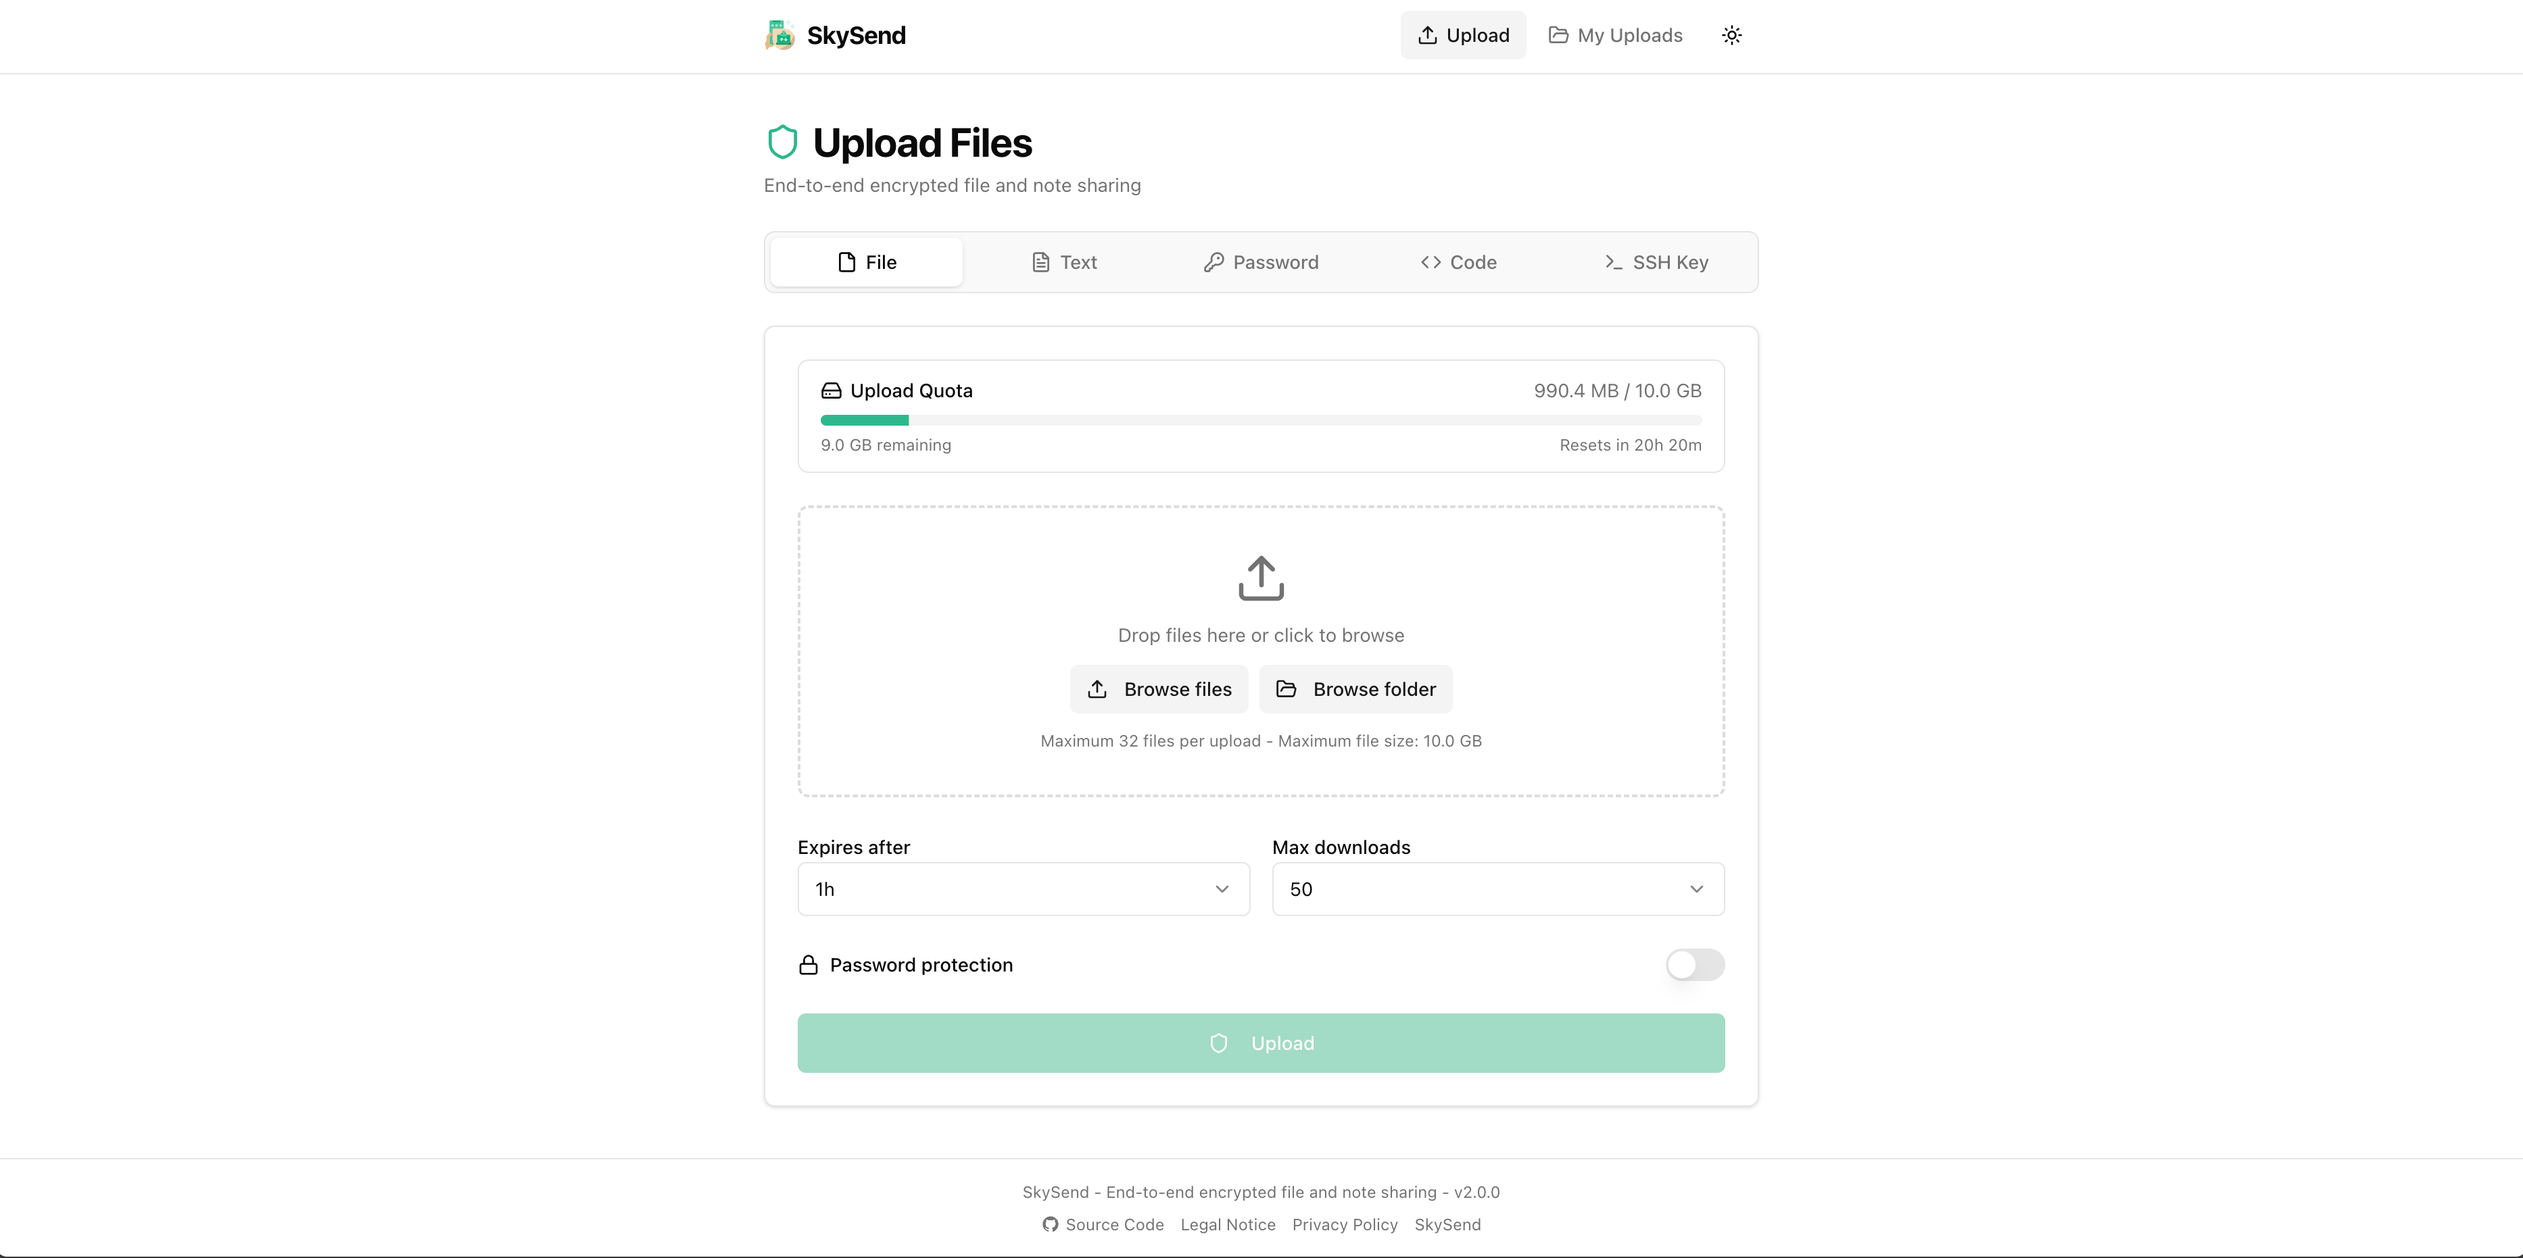
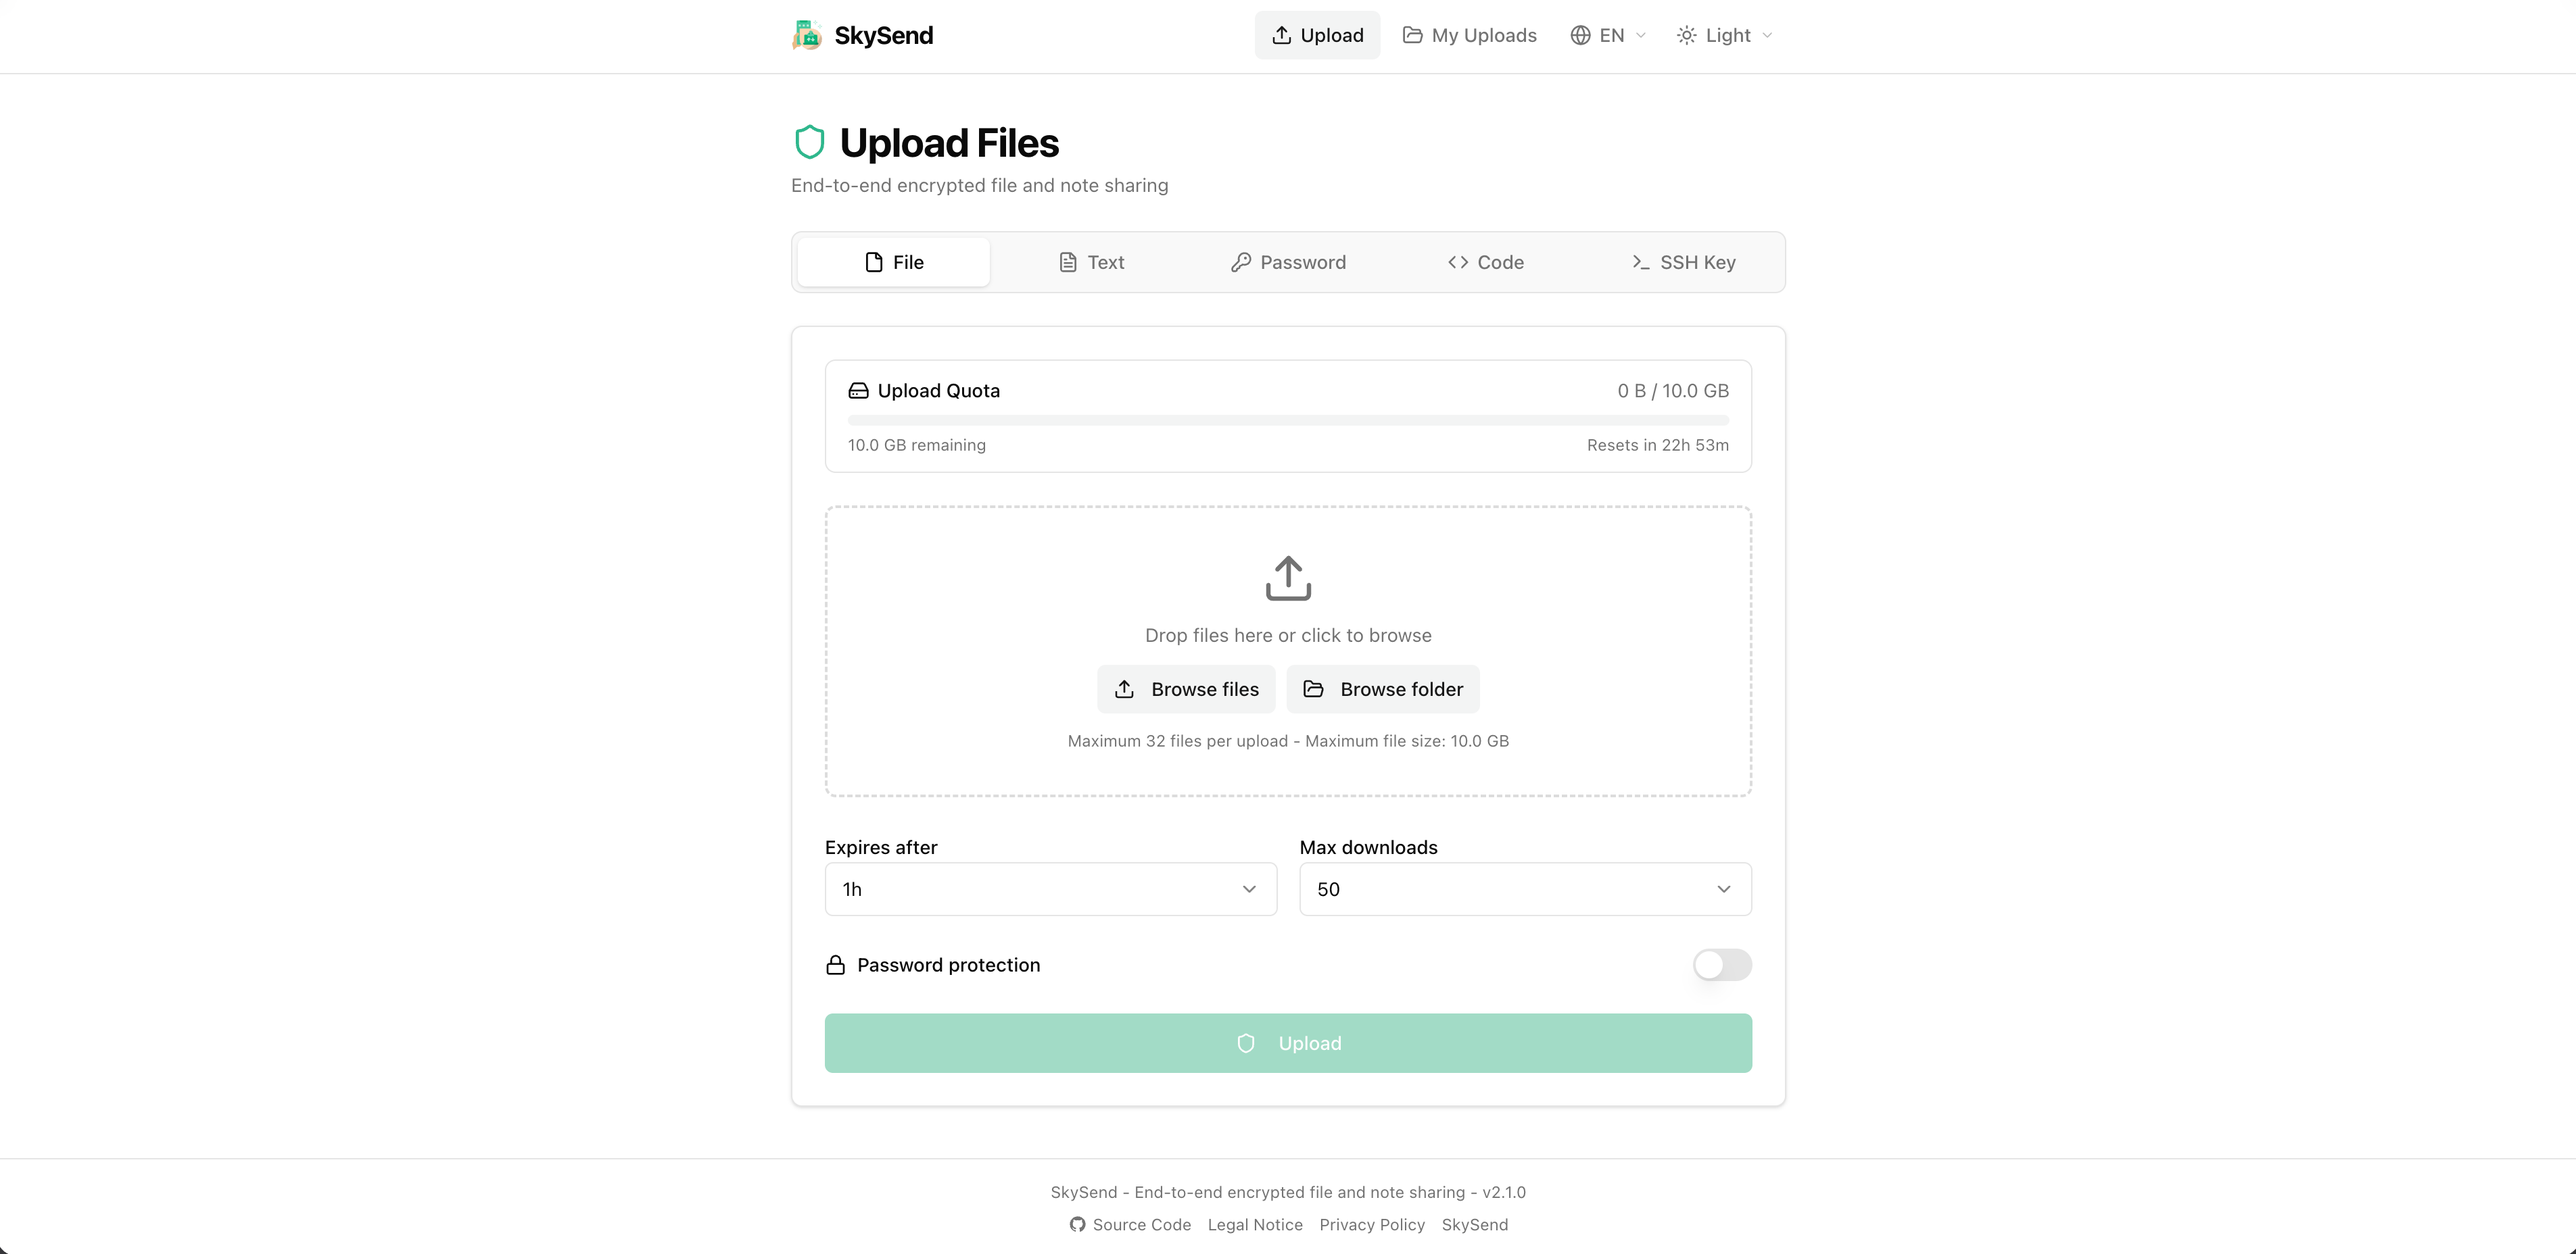
Add labeled passwords support and bump to v2.1.0
Introduce optional labels for password notes and migrate password serialization to a JSON entries format while preserving legacy plaintext parsing. PasswordForm now tracks {label,value}, exposes a label input, and serializes non-empty entries as JSON; NoteContent parses the new JSON format and falls back to legacy \n\n-separated plaintext. Added i18n labelPlaceholder keys across locales, updated changelog and Docker image tag, and bumped package versions to v2.1.0 (apps, packages, docs, root).

diff --git a/apps/web/src/components/PasswordForm.tsx b/apps/web/src/components/PasswordForm.tsx
@@ -33,7 +33,7 @@ export function PasswordForm() {
   const { config } = useServerConfig();
   const noteHook = useNoteUpload();
 
-  const [passwords, setPasswords] = useState<string[]>([""]);
+  const [passwords, setPasswords] = useState<{ label: string; value: string }[]>([{ label: "", value: "" }]);
   const [showValues, setShowValues] = useState<boolean[]>([false]);
   const [generatorIndex, setGeneratorIndex] = useState<number | null>(null);
 
@@ -48,20 +48,25 @@ export function PasswordForm() {
   const effectiveExpireSec = expireSec ?? config.noteDefaultExpire;
   const effectiveMaxViews = maxViews ?? config.noteDefaultViews;
 
-  const content = passwords.filter((p) => p.length > 0).join("\n\n");
+  const nonEmpty = passwords.filter((p) => p.value.length > 0);
+  const content = JSON.stringify(nonEmpty.map((p) => ({ label: p.label, value: p.value })));
   const contentBytes = new TextEncoder().encode(content).length;
   const sizeExceeded = contentBytes > config.noteMaxSize;
   const isSubmitting =
     noteHook.phase === "encrypting" || noteHook.phase === "uploading";
   const canSubmit =
-    passwords.some((p) => p.length > 0) && !sizeExceeded && !isSubmitting;
+    passwords.some((p) => p.value.length > 0) && !sizeExceeded && !isSubmitting;
 
   const updatePassword = (index: number, value: string) => {
-    setPasswords((prev) => prev.map((p, i) => (i === index ? value : p)));
+    setPasswords((prev) => prev.map((p, i) => (i === index ? { ...p, value } : p)));
+  };
+
+  const updateLabel = (index: number, label: string) => {
+    setPasswords((prev) => prev.map((p, i) => (i === index ? { ...p, label } : p)));
   };
 
   const addField = () => {
-    setPasswords((prev) => [...prev, ""]);
+    setPasswords((prev) => [...prev, { label: "", value: "" }]);
     setShowValues((prev) => [...prev, false]);
   };
 
@@ -99,7 +104,7 @@ export function PasswordForm() {
 
   const handleNewNote = () => {
     noteHook.reset();
-    setPasswords([""]);
+    setPasswords([{ label: "", value: "" }]);
     setShowValues([false]);
     setGeneratorIndex(null);
     setNotePassword("");
@@ -126,11 +131,20 @@ export function PasswordForm() {
 
           {passwords.map((pw, index) => (
             <div key={index} className="space-y-2">
+              <Input
+                type="text"
+                value={pw.label}
+                onChange={(e) => updateLabel(index, e.target.value)}
+                placeholder={t("password.labelPlaceholder", { number: index + 1 })}
+                className="text-xs h-8"
+                disabled={isSubmitting}
+                autoComplete="off"
+              />
               <div className="flex items-center gap-2">
                 <div className="relative flex-1">
                   <Input
                     type={showValues[index] ? "text" : "password"}
-                    value={pw}
+                    value={pw.value}
                     onChange={(e) => updatePassword(index, e.target.value)}
                     placeholder={t("password.enterPassword")}
                     className="pr-9 font-mono"

diff --git a/apps/web/src/components/NoteContent.tsx b/apps/web/src/components/NoteContent.tsx
@@ -95,7 +95,25 @@ export function NoteContent({ content, contentType }: NoteContentProps) {
   };
 
   if (contentType === "password") {
-    const passwords = content.split("\n\n").filter((p) => p.length > 0);
+    // Support both new JSON format and legacy plaintext format
+    let entries: { label: string; value: string }[];
+    try {
+      const parsed = JSON.parse(content) as unknown[];
+      if (Array.isArray(parsed) && parsed.every((e) => typeof e === "object" && e !== null && "value" in e)) {
+        entries = parsed.map((e) => {
+          const obj = e as Record<string, unknown>;
+          return {
+            label: typeof obj.label === "string" ? obj.label : "",
+            value: String(obj.value),
+          };
+        });
+      } else {
+        throw new Error("Not password JSON");
+      }
+    } catch {
+      // Legacy format: passwords separated by \n\n
+      entries = content.split("\n\n").filter((p) => p.length > 0).map((p) => ({ label: "", value: p }));
+    }
 
     const togglePasswordReveal = (index: number) => {
       setRevealedPasswords((prev) => {
@@ -129,18 +147,16 @@ export function NoteContent({ content, contentType }: NoteContentProps) {
 
     return (
       <div className="space-y-3">
-        {passwords.map((pw, index) => (
+        {entries.map((entry, index) => (
           <div key={index} className="space-y-2">
-            {passwords.length > 1 && (
-              <span className="text-xs font-medium text-muted-foreground">
-                {t("password.passwordNumber", { number: index + 1 })}
-              </span>
-            )}
+            <span className="text-xs font-medium text-muted-foreground">
+              {entry.label || t("password.passwordNumber", { number: index + 1 })}
+            </span>
             <div className="flex items-center gap-2">
               <div className="flex-1 rounded-lg border bg-muted/50 px-4 py-2.5 font-mono text-sm break-all">
                 {revealedPasswords.has(index)
-                  ? pw
-                  : "•".repeat(Math.min(pw.length, 40))}
+                  ? entry.value
+                  : "•".repeat(Math.min(entry.value.length, 40))}
               </div>
               <Button
                 variant="outline"
@@ -159,7 +175,7 @@ export function NoteContent({ content, contentType }: NoteContentProps) {
                 variant="outline"
                 size="icon"
                 className="shrink-0"
-                onClick={() => copyPassword(pw, index)}
+                onClick={() => copyPassword(entry.value, index)}
                 title={copiedPasswords.has(index) ? t("common.copied") : t("common.copy")}
               >
                 {copiedPasswords.has(index) ? (

diff --git a/docs/roadmap.md b/docs/roadmap.md
@@ -10,22 +10,7 @@ This page outlines planned features and improvements for SkySend. Features are s
 - Graceful shutdown improvements
 - Production optimizations (compression, caching headers)
 
-### Documentation
-- VitePress documentation site
-- Self-hosting instructions (Docker, reverse proxy)
-- Configuration reference
-- Crypto design documentation (public audit material)
-- API documentation
-
 ## Planned
-
-### Security Hardening
-- Content Security Policy (CSP) headers
-- HSTS, X-Frame-Options, and other security headers
-- CORS configuration review
-- Input sanitization review
-- Crypto code security review
-- `robots.txt` and `security.txt`
 
 ### Load Argon2id WASM in Frontend
 - Integrate Argon2id WASM for password protection in the browser
@@ -37,17 +22,7 @@ This page outlines planned features and improvements for SkySend. Features are s
 - Password-protected upload flow
 - Multi-file upload flow
 
-### CI/CD Pipeline
-- GitHub Actions: lint + test on PR
-- GitHub Actions: build + push Docker image to GHCR
-- Semantic versioning + changelog automation
-- Dependabot configuration
-
 ## Nice-to-Have
-
-### QR Code Sharing
-- Generate QR code for share links
-- Useful for cross-device transfers
 
 ### CLI Upload Tool
 - Command-line client for uploading files directly
@@ -56,11 +31,6 @@ This page outlines planned features and improvements for SkySend. Features are s
 ### Notification on Download
 - Optional notification when a file is downloaded
 - Webhook or email notification
-
-### Custom Branding
-- Configurable site title (already supported via `CUSTOM_TITLE`)
-- Custom logo and favicon support
-- Custom colors/theme
 
 ### S3 Storage Backend
 - Alternative storage backend using S3-compatible object storage

diff --git a/docs/changelog.md b/docs/changelog.md
@@ -2,8 +2,8 @@
 
 All notable changes to SkySend are documented here.
 
-## v2.0.1 - Dynamic Instances Page
-*Release: In Progress*
+## v2.1.0 - General UI and Documentation Improvements
+*Released: April 14, 2026*
 
 ### ✨ Features
 - **docs**: Added VitePress sitemap generation (`/sitemap.xml`) for Google Search Console indexing
@@ -17,6 +17,7 @@ All notable changes to SkySend are documented here.
 - **docs**: Instance cards show "Official" or "Community" badge, with official instances (skysend.ch) always sorted first
 - **web**: Added language switcher dropdown in the navbar with country flag icons via `flag-icons` library
 - **web**: Manual language selection is persisted in a cookie so it survives page reloads and sessions
+- **web**: Added optional custom labels for password notes so users can describe what each password is for
 
 ### 🎨 Improvements
 - **web**: Redesigned theme toggle from a cycling button to a dropdown menu with Auto, Light, and Dark options
@@ -24,7 +25,7 @@ All notable changes to SkySend are documented here.
 
 ### 🐳 Docker
 
-- **Image**: `ghcr.io/skyfay/skysend:v2.0.1`
+- **Image**: `ghcr.io/skyfay/skysend:v2.1.0`
 - **Also tagged as**: `latest`, `v2`
 - **Platforms**: linux/amd64, linux/arm64
 
